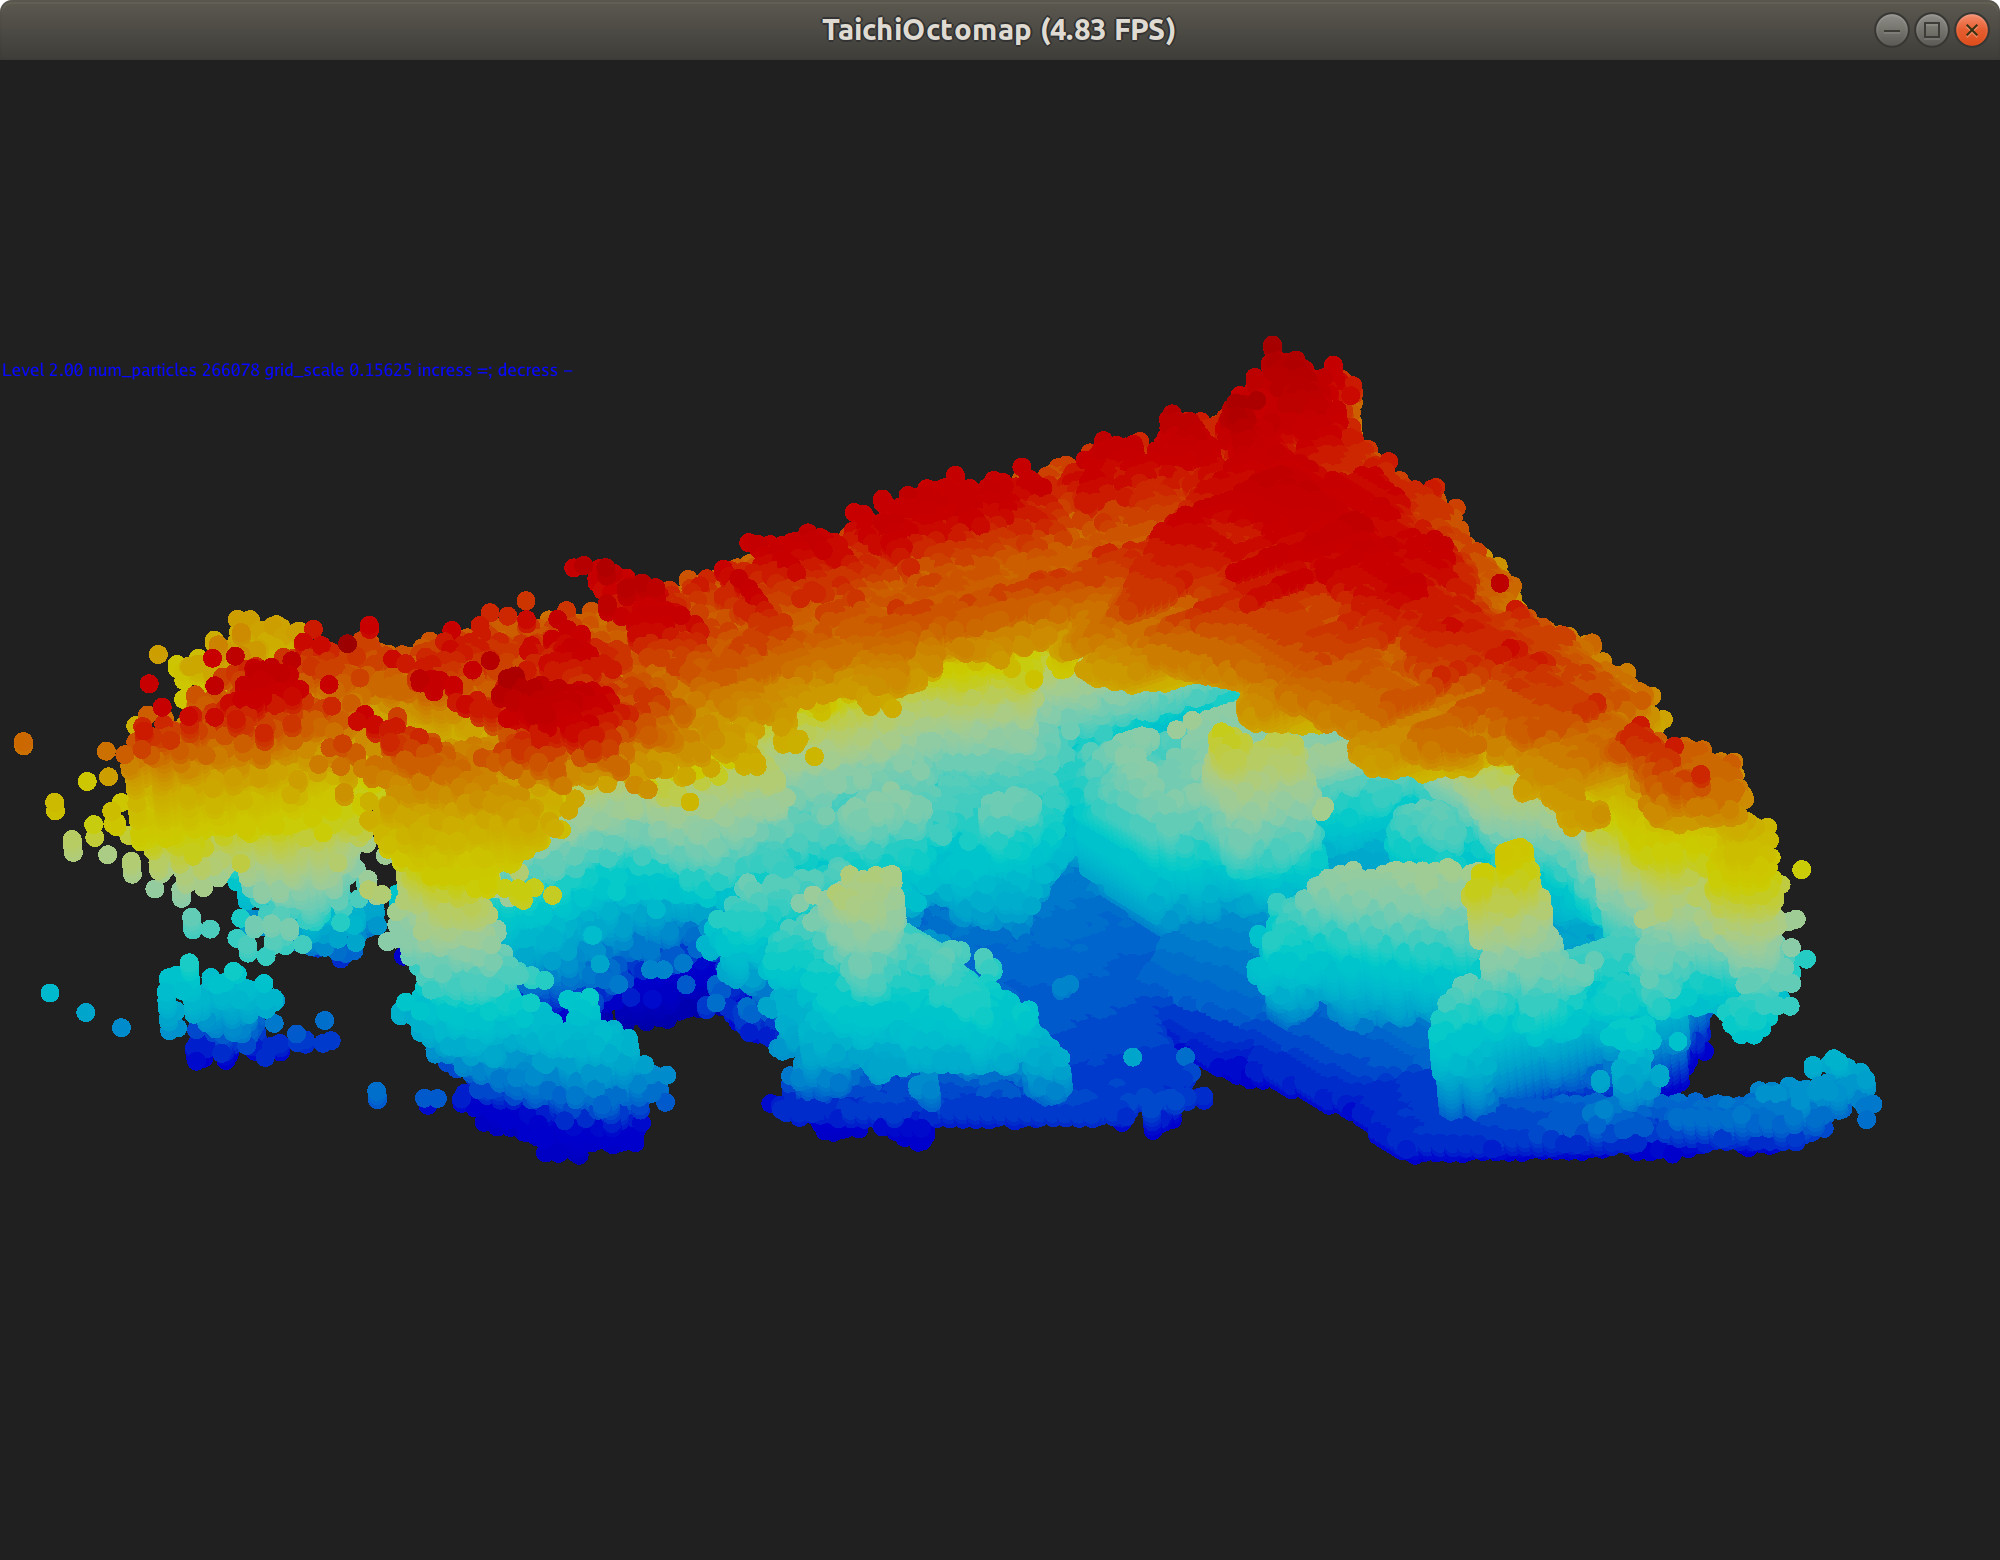
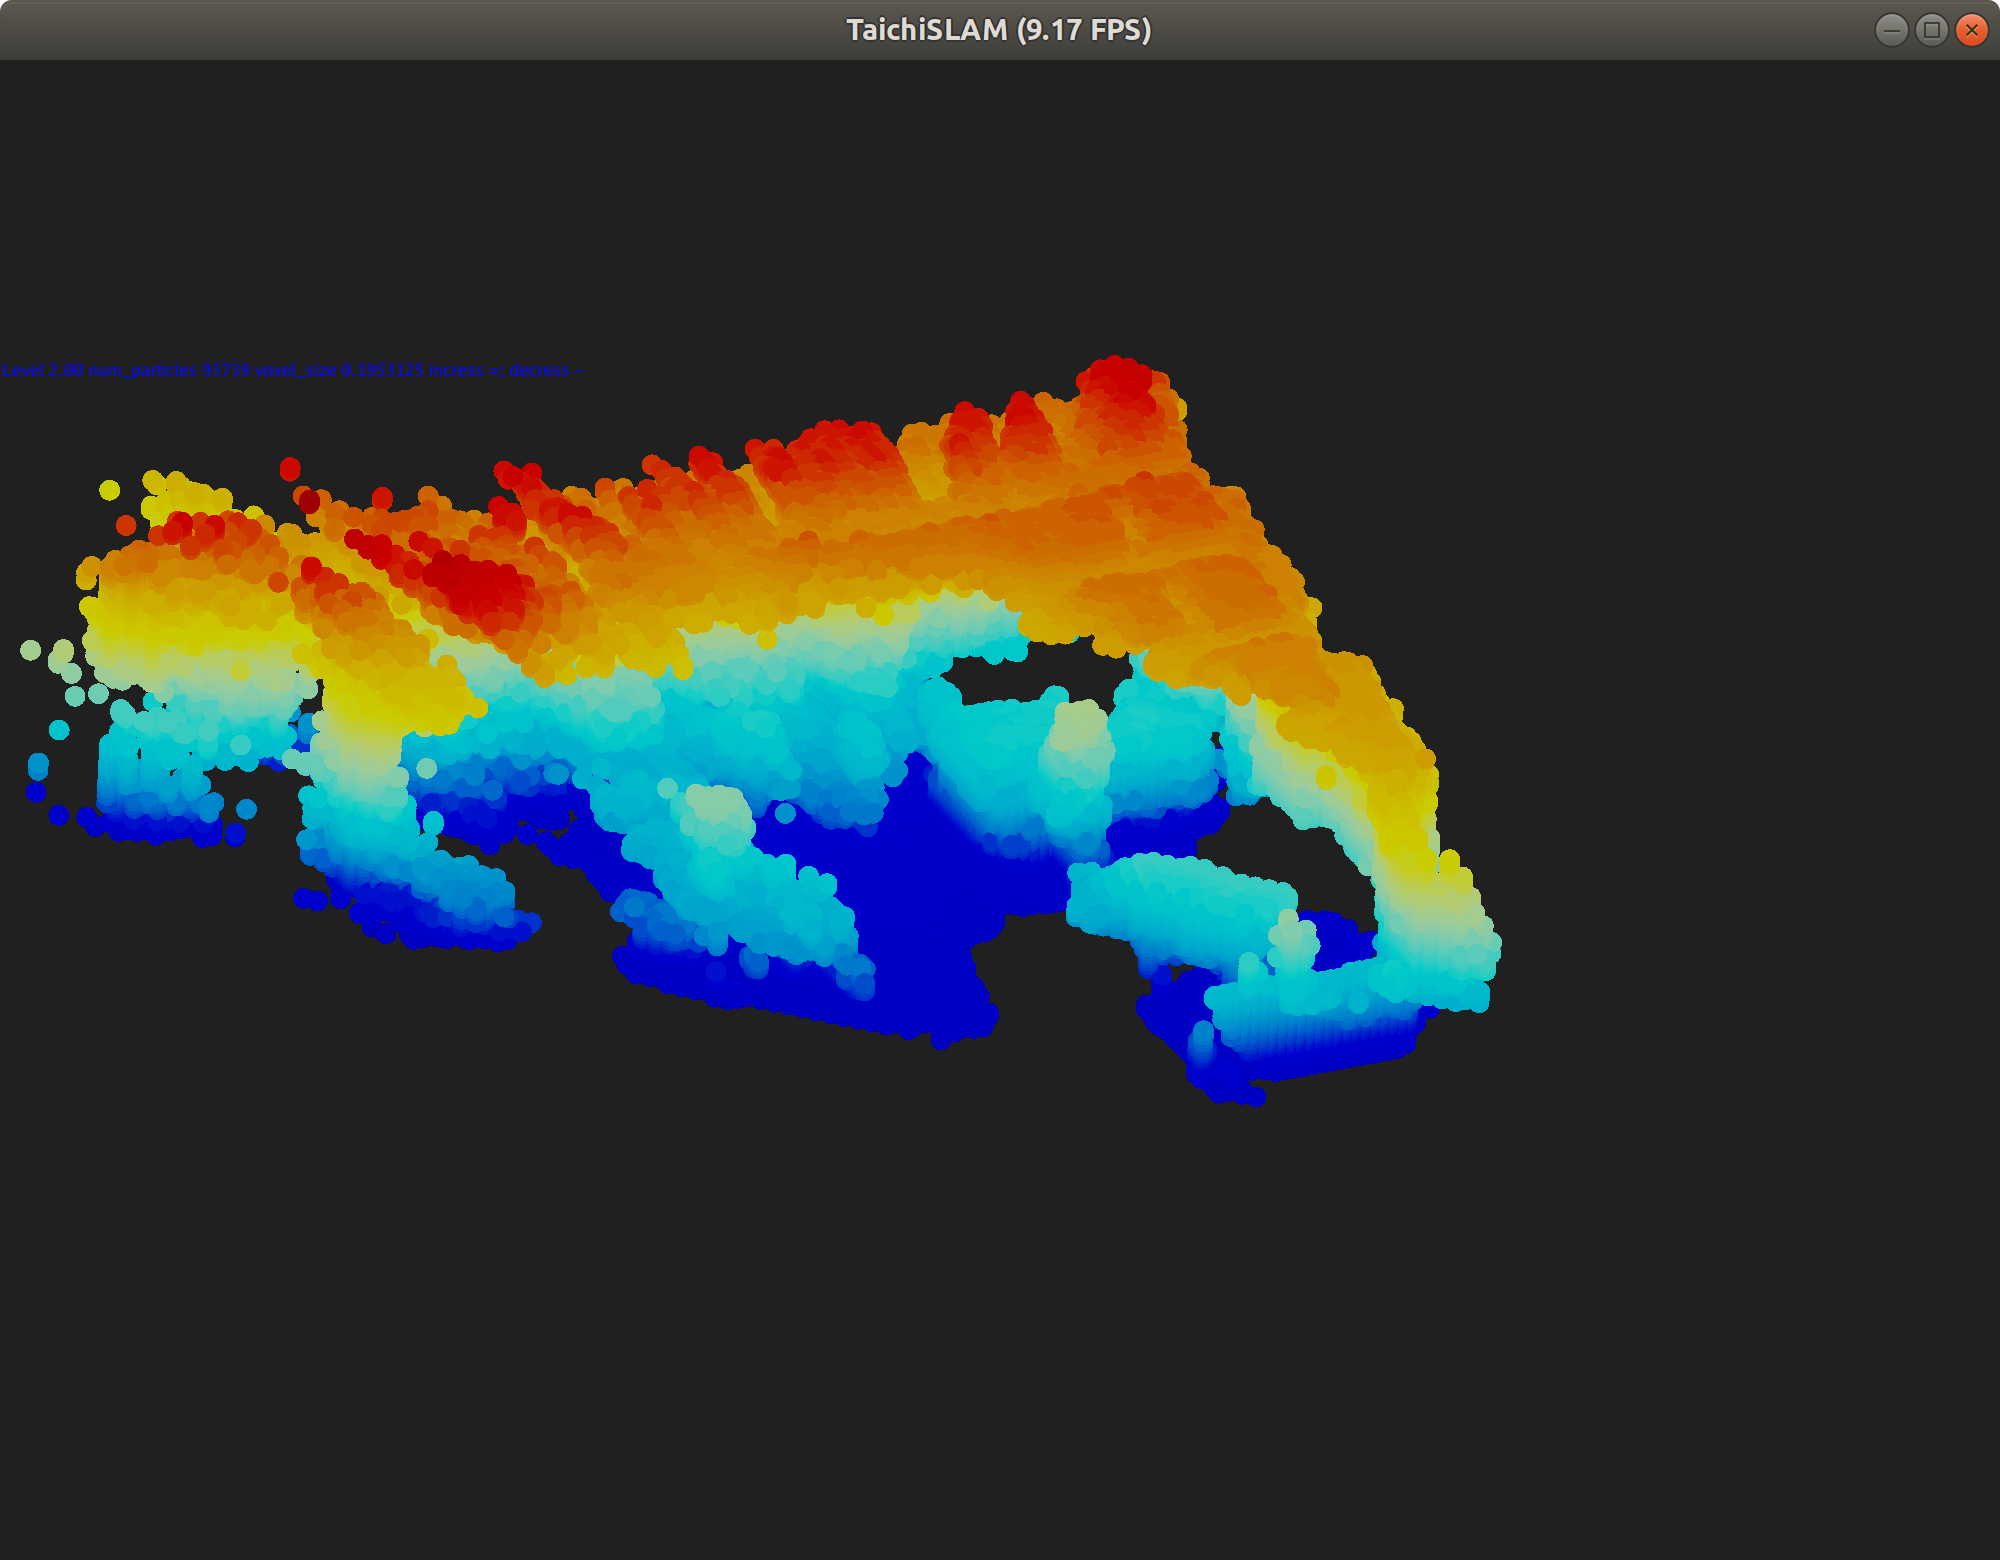
Better time sync.

diff --git a/examples/TaichiSLAM_demo.py b/examples/TaichiSLAM_demo.py
@@ -15,7 +15,12 @@ pub = None
 project_in_taichi = True
 disp_in_rviz = False
 
-def taichimapping_pcl_callback(mapping, cur_trans, msg):
+def rendering(mapping):
+    global level
+    level, t_v2p = mapping.handle_render(scene, gui, pars1, level, pars_sdf=pars2, substeps = 3)
+    return t_v2p
+
+def taichimapping_pcl_callback(mapping, cur_trans, msg, enable_rendering):
     if cur_trans is None:
         return
 
@@ -45,8 +50,9 @@ def taichimapping_pcl_callback(mapping, cur_trans, msg):
     t_pubros = (time.time() - start_time)*1000
 
     start_time = time.time()
-    global level
-    level, t_v2p = mapping.handle_render(scene, gui, pars1, level, pars_sdf=pars2, substeps = 3)
+    t_v2p = 0
+    if enable_rendering:
+        t_v2p = rendering(mapping)
     t_render = (time.time() - start_time)*1000
 
     print(f"Time: pcl2npy {t_pcl2npy:.1f}ms t_recast {t_recast:.1f}ms t_v2p {t_v2p:.1f}ms t_pubros {t_pubros:.1f}ms t_render {t_render:.1f}ms")
@@ -90,6 +96,7 @@ if __name__ == '__main__':
     parser.add_argument("--blk", help="block size of esdf, if blk==1; then dense", type=int, default=32)
     parser.add_argument("-v","--voxel-size", help="size of voxel", type=float, default=0.05)
     parser.add_argument("-K", help="division each axis of mapping, when K>2, octo will be K**3 tree", type=int, default=2)
+    parser.add_argument("-f", "--rendering-final", help="only rendering the final state", action='store_true')
     parser.add_argument("--record", help="record to C code", action='store_true')
 
     args = parser.parse_args()
@@ -145,9 +152,12 @@ if __name__ == '__main__':
         print("No data input, using random generate maps")
         mapping.random_init_octo(1000)
         while gui.running:
-            level, _ = mapping.handle_render(mapping, scene, gui, pars1, level)
+            rendering(mapping)    
     else:
         iteration_over_bag(args.bagpath, 
-            lambda _1, _2: taichimapping_pcl_callback(mapping, _1, _2))
+            lambda _1, _2: taichimapping_pcl_callback(mapping, _1, _2, not args.rendering_final))
+
+    while gui.running:
+        rendering(mapping)    
 
 

diff --git a/taichi_slam/utils/ros_pcl_transfer.py b/taichi_slam/utils/ros_pcl_transfer.py
@@ -9,6 +9,8 @@ import rospy
 import sensor_msgs.msg as sensor_msgs
 import std_msgs.msg as std_msgs
 
+time_sync_thres = 0.02
+
 def get_xyz_rgb_points(cloud_array, remove_nans=True, dtype=np.float):
     '''Pulls out x, y, and z columns from the cloud recordarray, and returns
 	a 3xN matrix.
@@ -144,20 +146,40 @@ def pcl_callback(cur_trans, msg):
     if pub_pose is not None:
         pub_pose.publish(pose)
 
+
+def sync_error(msg1, msg2, abs=False):
+    # sync_error>0, msg1 is newer
+    # sync_error<0 msg2 is newer
+    err = (msg1.header.stamp - msg2.header.stamp).to_sec()
+    if abs:
+        return math.fabs(err)
+    return err
+
 def iteration_over_bag(path, callback):
     bag = rosbag.Bag(path)
-    cur_trans = None
+    camera_pose_queue = []    
     count_depth = 0
     for topic, msg, t in bag.read_messages(topics=['/camera/depth_registered/points', '/kinect/vrpn_client/estimated_transform']):
         try:
-            if topic == '/camera/depth_registered/points':
-                callback(cur_trans, msg)
-            else:
-                cur_trans = msg
+            if topic == '/camera/depth_registered/points' and len(camera_pose_queue) > 0:
+                k = 0
+                for i in range(len(camera_pose_queue)-1):
+                    if sync_error(msg, camera_pose_queue[i], True) <  sync_error(msg, camera_pose_queue[i+1], True):
+                        k = i
+                        break
+                cur_trans = camera_pose_queue[k]
+                camera_pose_queue = camera_pose_queue[k+1:]
+                if sync_error(msg, cur_trans, True) < time_sync_thres:
+                    callback(cur_trans, msg)
+                else:
+                    print("sync error too big, give up msg", sync_error(msg, cur_trans))
+
+            elif topic == '/kinect/vrpn_client/estimated_transform':
+                camera_pose_queue.append(msg)
+
         except KeyboardInterrupt:
             exit(0)
             break
-    callback(cur_trans, msg)
 
 if __name__ == "__main__":
     rospy.init_node("TaichiOctomap", disable_signals=False)

diff --git a/taichi_slam/mapping/dense_esdf.py b/taichi_slam/mapping/dense_esdf.py
@@ -209,7 +209,6 @@ class DenseESDF(Basemap):
 
         max_sdf = np.max(sdf[0:num_particles_])
         min_sdf = np.min(sdf[0:num_particles_])
-        print("min_sdf", min_sdf, "max_sdf", max_sdf)
         colors = cm.gist_rainbow((sdf[0:num_particles_] - min_sdf)/(max_sdf-min_sdf))
         
         pos = pos_[0:num_particles_,:]
